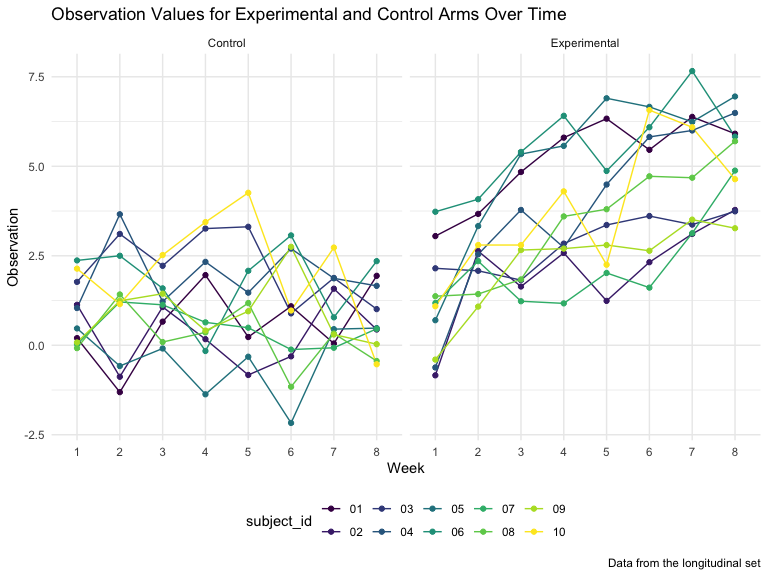
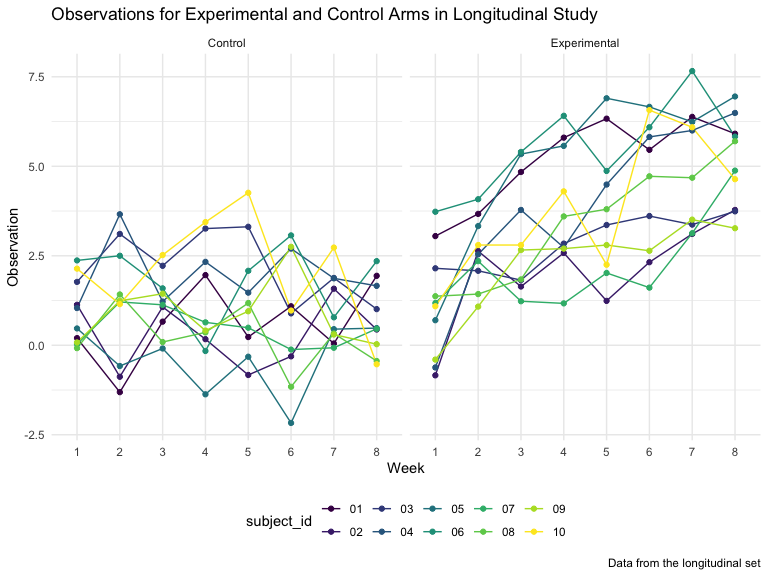
spaghetti plot title update

Changed region(s): [[0.1875, 0.0, 0.7812, 0.0625]]

diff --git a/p8105_hw5_sg3891.md b/p8105_hw5_sg3891.md
@@ -158,7 +158,7 @@ long_data %>%
   geom_point() +
   facet_grid(. ~arm) +
   labs(
-    title = "Observation Values for Experimental and Control Arms Over Time",
+    title = "Observations for Experimental and Control Arms in Longitudinal Study",
     x = "Week",
     y = "Observation",
     color = "subject_id",
